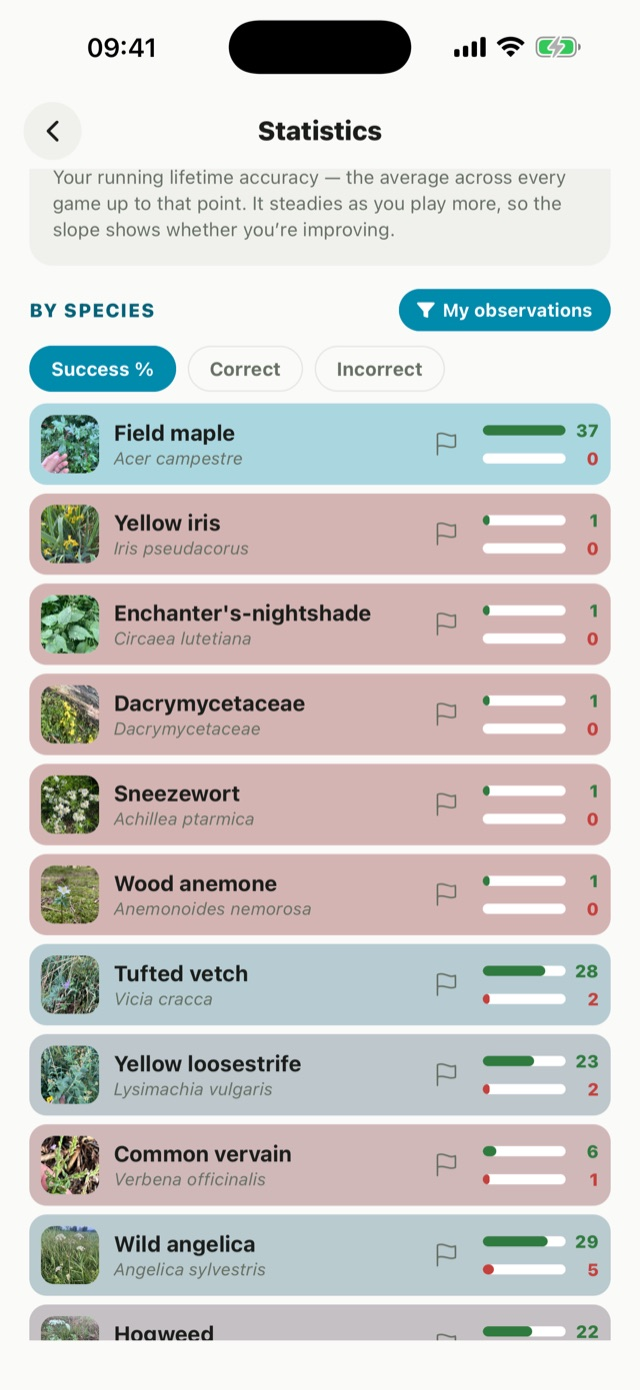
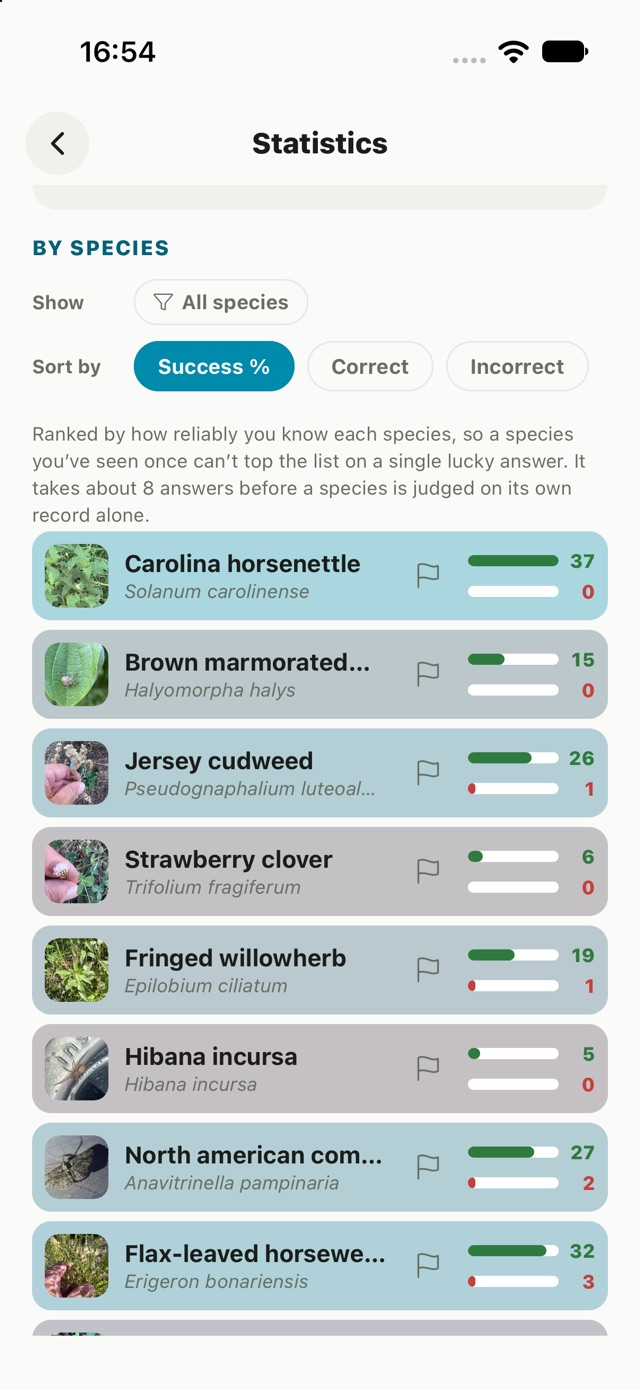
Website: current screenshots and copy; screenshot tooling fixes
Six of the site's images replaced from a fresh capture on the 2.44.2
build: the quiz, "Species you mix up", the duel, the per-species board,
Nearby, and the watch complications (the streak is a newt now, not a
flame). The watch photo stays: its UI is unchanged, and the new capture
came out blank (see below).

The analytics image was the stalest thing on the page — it ranked
species answered once above one at 28 of 30, under copy saying a
species met once can't claim the top spot. The capture script had no
shot of that board at all, so it gains 13-by-species, on All species:
the default "My observations" filter leaves a handful of one-answer
rows on the shots account. The board's controls live in the FlatList
header, with no index to scroll to, so it scrolls until the filter
shows and then by the measured difference.

Copy: the modes line still offered "by name, by picture … or a custom
set … from a starter deck". Both modes are Smart play question types
now, and there is no custom set or starter deck; rewritten from what
the app has. Plus "See a organism", and alt text for the new images.

Tooling: the "-dark" folders for iPhone 17 and iPad came out light.
Each of those names exists once per installed iOS runtime; Detox took
the iOS 27 simulator and the script set dark mode on the iOS 26.5 one.
The script now picks one UDID (newest runtime) and hands it to Detox.

Watch photo: the phone did not reach the watch inside the script's 12s,
[…]

diff --git a/index.html b/index.html
@@ -426,10 +426,10 @@ title: false
 <section class="showcase">
   <div class="frow">
     <div class="frow-media">
-      <figure><img src="/assets/screenshots/quiz.jpg" alt="A gote photo quiz — a plant in the wild with five species to choose from" loading="lazy" width="640" height="1390"></figure>
+      <figure><img src="/assets/screenshots/quiz.jpg" alt="A gote photo quiz — a puffball in the grass with five look-alike species to choose from" loading="lazy" width="640" height="1390"></figure>
     </div>
     <div class="frow-text">
-      <h2>See a organism and name what you’re looking at</h2>
+      <h2>See an organism and name what you’re looking at</h2>
       <p>Every card is a real observation, with five believable options drawn from
       genuine look-alikes — so you learn the difference, not just the answer.</p>
     </div>
@@ -437,7 +437,7 @@ title: false
 
   <div class="frow">
     <div class="frow-media">
-      <figure><img src="/assets/screenshots/confusion.jpg" alt="gote statistics — an accuracy trend line above a “Species you mix up” list of look-alike pairs" loading="lazy" width="640" height="1390"></figure>
+      <figure><img src="/assets/screenshots/confusion.jpg" alt="gote statistics — recent games and an accuracy trend line above a “Species you mix up” list of look-alike pairs" loading="lazy" width="640" height="1390"></figure>
     </div>
     <div class="frow-text">
       <h2>Feel yourself getting sharper</h2>
@@ -462,7 +462,7 @@ title: false
 
   <div class="frow">
     <div class="frow-media">
-      <figure><img src="/assets/screenshots/analytics.jpg" alt="gote per-species stats — each species with its correct and incorrect answer counts" loading="lazy" width="640" height="1390"></figure>
+      <figure><img src="/assets/screenshots/analytics.jpg" alt="gote per-species stats — each species with its correct and incorrect answer counts, ranked by how reliably you know it" loading="lazy" width="640" height="1390"></figure>
     </div>
     <div class="frow-text">
       <h2>Detailed analytics, species by species</h2>
@@ -485,8 +485,11 @@ title: false
 </section>
 
 <p class="modes qfade">
-  Play it your way — <strong>by name, by picture, speedrun, flash cards or a
-  custom set</strong> — from a starter deck or your own iNaturalist observations.
+  Play it your way — <strong>Smart play</strong> mixes picking the name, picking
+  the photo, look-alike pairs and typing it from memory; or go for
+  <strong>speedrun</strong>, <strong>nearby species</strong> or <strong>flash
+  cards</strong>. All from your own iNaturalist observations, or from what’s
+  commonly seen around any spot on the map.
 </p>
 
 <section class="watch">

diff --git a/screenshots-local/screenshots.test.js b/screenshots-local/screenshots.test.js
@@ -289,7 +289,7 @@ describe('App Store screenshots', () => {
   it('09 — species you mix up', async () => {
     await tap('menu-stats');
     await visible('stats-scroll');
-    // Scroll the confusion section into view (it sits below the per-species board).
+    // Scroll the confusion section into view (it sits above the per-species board).
     await waitFor(element(by.id('stats-confusion-0')))
       .toBeVisible()
       .whileElement(by.id('stats-scroll'))
@@ -330,5 +330,37 @@ describe('App Store screenshots', () => {
       .whileElement(by.id('settings-scroll'))
       .scroll(300, 'down');
     await shot('12-settings', 1500);
+  });
+
+  // The per-species board: every species with its right and wrong counts,
+  // ranked by how reliably you know it. It is what the website's "Detailed
+  // analytics, species by species" row describes, and nothing above captured it
+  // — 05 is the top of Statistics, 09 stops at the mix-ups.
+  it('13 — per-species breakdown', async () => {
+    await tap('menu-stats');
+    await visible('stats-scroll');
+    // The board's controls live in the FlatList's header, so there is no row
+    // index to scroll to. Scroll until the "Show" filter appears, then read
+    // where it landed and scroll by exactly the difference, so the "By species"
+    // title sits just under the screen header rather than wherever a 350pt
+    // step happened to stop.
+    await waitFor(element(by.id('stats-filter')))
+      .toBeVisible()
+      .whileElement(by.id('stats-scroll'))
+      .scroll(350, 'down');
+    // Show every species answered, not just the account's own observations:
+    // the filter defaults to "My observations", which on the shots account is
+    // a handful of one-answer rows and runs out onto "Reset statistics" — a
+    // thin picture of a page whose point is the whole breakdown.
+    const { label } = await element(by.id('stats-filter')).getAttributes();
+    if (/My observations/.test(label || '')) {
+      await element(by.id('stats-filter')).tap();
+      await hold(800); // the list re-sorts behind a layout animation
+    }
+    const { frame } = await element(by.id('stats-filter')).getAttributes();
+    // ~115pt of screen header, then the "By species" title above the filter.
+    const delta = Math.round(frame.y - 175);
+    if (delta > 10) await element(by.id('stats-scroll')).scroll(delta, 'down');
+    await shot('13-by-species', 3000); // let the row thumbnails resolve
   });
 });

diff --git a/screenshots-local/detox.shots.config.js b/screenshots-local/detox.shots.config.js
@@ -45,7 +45,14 @@ module.exports = {
     simulator: {
       type: 'ios.simulator',
       // 6.9" device gives App Store-ready dimensions; override with SHOTS_DEVICE.
-      device: { type: process.env.SHOTS_DEVICE || 'iPhone 17 Pro Max' },
+      // capture-screenshots.sh passes SHOTS_UDID as well, and it wins: a device
+      // TYPE can match one simulator per installed iOS runtime, and Detox and
+      // the script were each picking a different one — so the script set dark
+      // mode on a simulator Detox never photographed, and the "-dark" folders
+      // came out light. One exact UDID, chosen once, used by both.
+      device: process.env.SHOTS_UDID
+        ? { id: process.env.SHOTS_UDID }
+        : { type: process.env.SHOTS_DEVICE || 'iPhone 17 Pro Max' },
     },
   },
   configurations: {

diff --git a/screenshots-local/README.md b/screenshots-local/README.md
@@ -35,8 +35,13 @@ SHOTS_USER=mate_koch SHOTS_PLACE=Kaposvar ./screenshots-local/capture-screenshot
 
 `/Users/mkoch/Developer/gote-launch/screenshots/<timestamp>/<device>/`
 - one subfolder **per device type** (e.g. `iphone-17-pro-max/`, `ipad-pro-13-inch-m4/`)
-- each with: `01-menu`, `02-by-name`, `03-lexicon`, `04-detail`, `05-statistics`,
-  `06-nearby`, `07-speedrun`, `08-results` (`.png`)
+- each with: `01-menu`, `02-name-question`, `03-lexicon`, `04-detail`,
+  `05-statistics`, `06-nearby`, `07-speedrun`, `08-results`, `09-mixups`,
+  `10-compare`, `11-duel`, `12-settings`, `13-by-species` (`.png`)
+- a `-dark` twin of each device folder, from the dark-appearance pass
+- the website (`assets/screenshots/`, 640×1390 JPEGs) is cut from the
+  `iphone-17` set: `quiz` ← 02, `confusion` ← 09, `duel` ← 11,
+  `analytics` ← 13, `nearby` ← 06; the watch pair from `apple-watch/`
 - **`apple-watch/`** — `watch-01-home`, `-02-photo`, `-03-answers`,
   `-04-summary`, `-05-complications` (see the Apple Watch note below)
 
